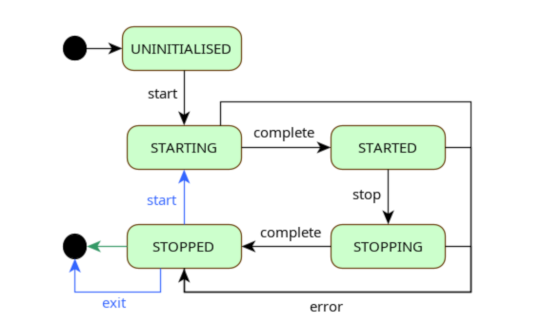
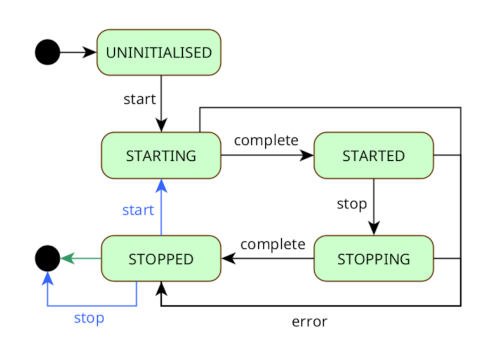
improve lifecycle

Changed region(s): [[0.06, 0.0599, 0.93, 0.9581]]

diff --git a/src/main/java/com/webotech/statemachine/service/LifecycleStateMachineUtil.java b/src/main/java/com/webotech/statemachine/service/LifecycleStateMachineUtil.java
@@ -21,7 +21,6 @@ public final class LifecycleStateMachineUtil {
   public static final StateEvent<Void> evtComplete = new NamedStateEvent<>("complete");
   public static final StateEvent<Void> evtStop = new NamedStateEvent<>("stop");
   public static final StateEvent<Void> evtError = new NamedStateEvent<>("error");
-  public static final StateEvent<Void> evtExit = new NamedStateEvent<>("exit");
   public static final String STATE_UNINITIALISED = "UNINITIALISED";
   public static final String STATE_STARTING = "STARTING";
   public static final String STATE_STARTED = "STARTED";
@@ -70,7 +69,7 @@ public final class LifecycleStateMachineUtil {
    * <tr><td>STOPPING</td><td>complete</td><td>STOPPED</td></tr>
    * <tr><td>STOPPING</td><td>error</td><td>STOPPED</td></tr>
    * <tr><td>STOPPED</td><td>start</td><td>STARTING</td></tr>
-   * <tr><td>STOPPED</td><td>exit</td><td>it ends</td></tr>
+   * <tr><td>STOPPED</td><td>stop</td><td>it ends</td></tr>
    * </table>
    */
   public static <T> void configureAppStateMachine(StateMachine<T, Void> stateMachine,
@@ -84,7 +83,7 @@ public final class LifecycleStateMachineUtil {
     stateMachine.when(stopping).receives(evtComplete).itTransitionsTo(stopped);
     stateMachine.when(stopping).receives(evtError).itTransitionsTo(stopped);
     stateMachine.when(stopped).receives(evtStart).itTransitionsTo(starting);
-    stateMachine.when(stopped).receives(evtExit).itEnds();
+    stateMachine.when(stopped).receives(evtStop).itEnds();
   }
 
   @SafeVarargs
